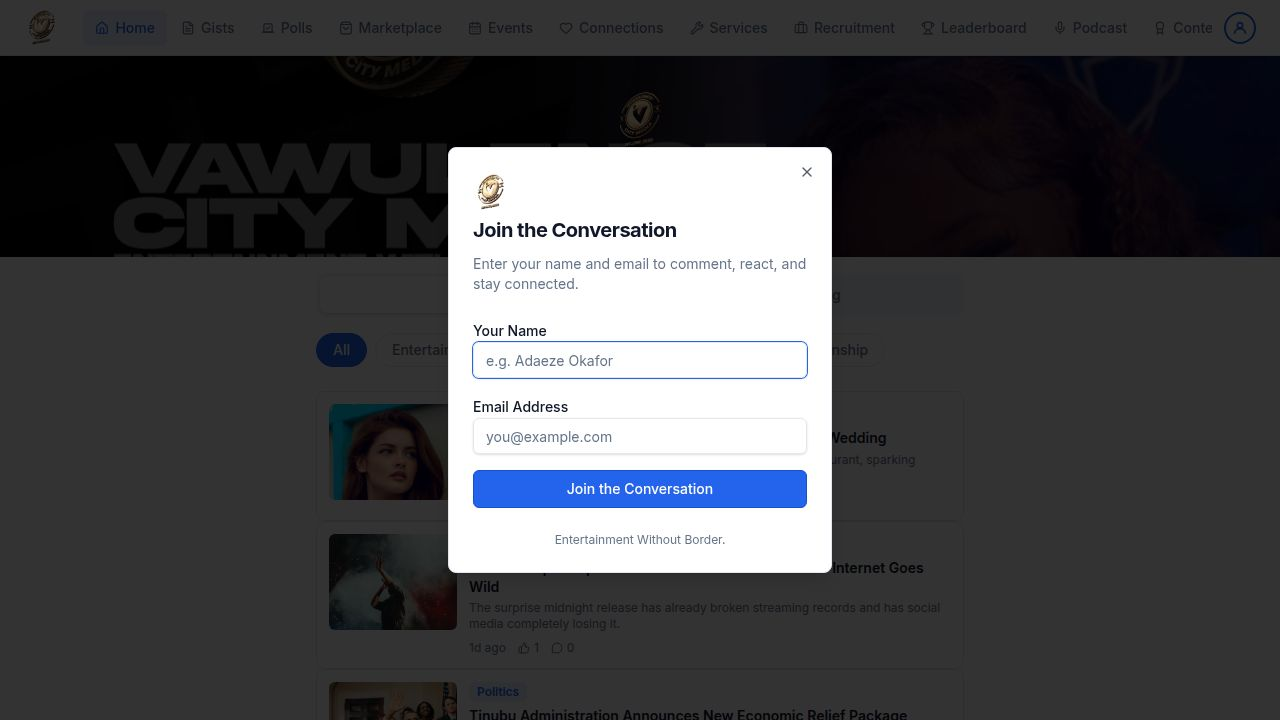
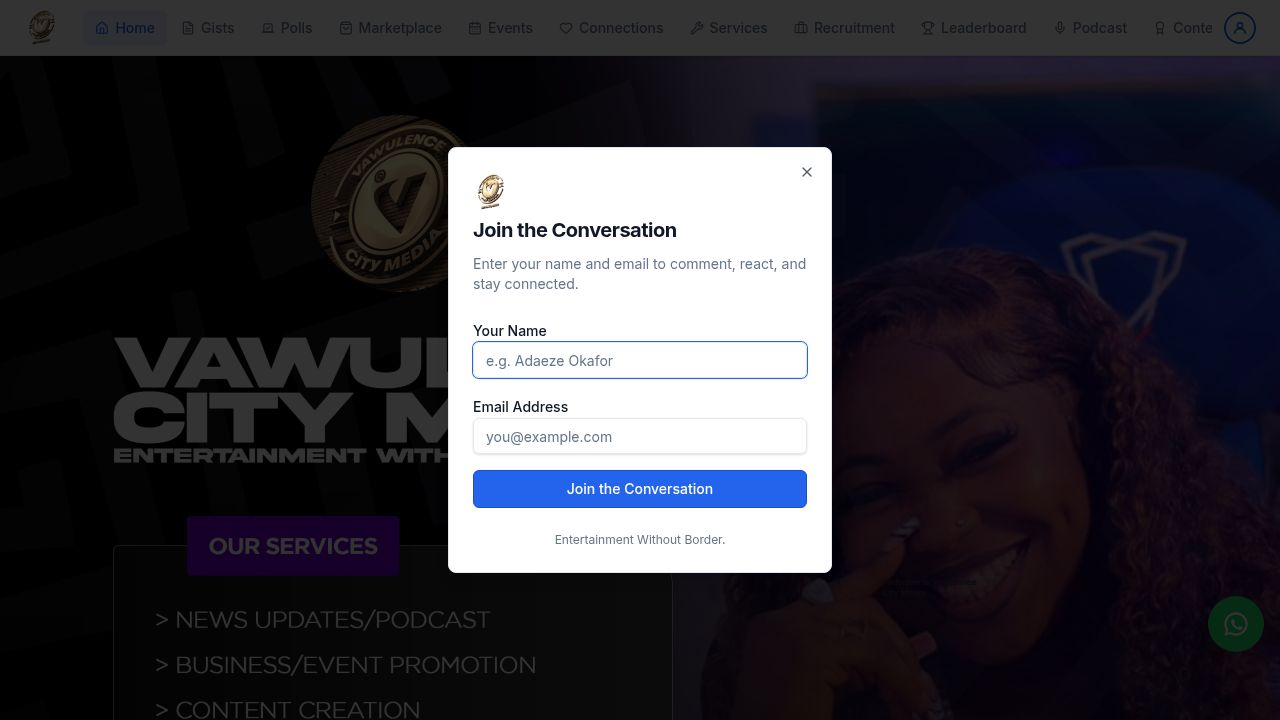
Fix homepage glitches and add a floating WhatsApp button
Resolves homepage flickering by reserving image space and initializing scroll state correctly. Adds a fixed WhatsApp button to the bottom-right corner.

Replit-Commit-Author: Agent
Replit-Commit-Session-Id: 5d6c28f1-0a67-4857-b88e-095cd15ee384
Replit-Commit-Checkpoint-Type: full_checkpoint
Replit-Commit-Event-Id: 11816262-6c73-4856-a5d1-f119dd834dbc
Replit-Commit-Screenshot-Url: https://storage.googleapis.com/screenshot-production-us-central1/4cdc7ef1-4e24-4452-ae7f-a7276cc99d9a/5d6c28f1-0a67-4857-b88e-095cd15ee384/z3jsvwD
Replit-Helium-Checkpoint-Created: true

diff --git a/artifacts/vcm/src/pages/HomePage.tsx b/artifacts/vcm/src/pages/HomePage.tsx
@@ -13,6 +13,8 @@ function Masthead() {
     function onScroll() {
       setCompact(window.scrollY > 80);
     }
+    // Set correct initial state based on current scroll (e.g. page refresh while scrolled)
+    setCompact(window.scrollY > 80);
     window.addEventListener("scroll", onScroll, { passive: true });
     return () => window.removeEventListener("scroll", onScroll);
   }, []);
@@ -35,11 +37,12 @@ function Masthead() {
   }
 
   return (
-    <div className="w-full" data-testid="home-masthead">
+    // aspect-square reserves space before the image loads → prevents layout-shift white flash
+    <div className="w-full aspect-square bg-black" data-testid="home-masthead">
       <img
         src="/vcm-flyer.jpeg"
         alt="Vawulence City Media"
-        className="w-full h-auto block"
+        className="w-full h-full object-cover block"
       />
     </div>
   );
@@ -120,6 +123,24 @@ export default function HomePage() {
   return (
     <div className="min-h-screen">
       <Masthead />
+
+      {/* WhatsApp floating button — fixed above bottom nav */}
+      <a
+        href="https://wa.me/2348030430681"
+        target="_blank"
+        rel="noopener noreferrer"
+        aria-label="Chat with us on WhatsApp"
+        className="fixed right-4 z-40 flex items-center justify-center w-14 h-14 rounded-full shadow-lg transition-transform hover:scale-110 active:scale-95"
+        style={{
+          bottom: "calc(56px + env(safe-area-inset-bottom) + 12px)",
+          background: "#25D366",
+        }}
+      >
+        {/* WhatsApp SVG icon */}
+        <svg viewBox="0 0 32 32" className="w-7 h-7 fill-white" xmlns="http://www.w3.org/2000/svg">
+          <path d="M16.003 2.667C8.639 2.667 2.667 8.638 2.667 16c0 2.364.627 4.674 1.817 6.694L2.667 29.333l6.823-1.789A13.27 13.27 0 0 0 16.003 29.333C23.365 29.333 29.333 23.362 29.333 16S23.365 2.667 16.003 2.667zm0 2.4c5.94 0 10.93 4.99 10.93 10.933 0 5.94-4.99 10.933-10.93 10.933a10.896 10.896 0 0 1-5.564-1.524l-.398-.237-4.05 1.062 1.08-3.937-.26-.41A10.892 10.892 0 0 1 5.07 16c0-5.944 4.99-10.933 10.933-10.933zm-3.04 5.6c-.19-.002-.392.003-.58.008-.215.006-.564.08-.86.4-.298.32-1.137 1.11-1.137 2.706 0 1.597 1.162 3.139 1.323 3.355.163.216 2.254 3.588 5.548 4.888.775.307 1.38.49 1.851.627.777.227 1.485.195 2.044.118.623-.086 1.92-.785 2.19-1.543.272-.757.272-1.406.19-1.542-.08-.136-.297-.216-.621-.378-.324-.162-1.917-.946-2.214-1.054-.298-.108-.514-.162-.73.162-.216.324-.838 1.054-1.027 1.27-.19.216-.378.243-.702.081-.324-.162-1.367-.504-2.604-1.607-.963-.859-1.613-1.918-1.803-2.242-.188-.324-.02-.5.142-.661.146-.146.324-.378.487-.567.162-.189.216-.324.324-.54.108-.216.054-.405-.027-.567-.08-.162-.73-1.76-1.003-2.408-.243-.577-.49-.575-.68-.583z"/>
+        </svg>
+      </a>
 
       <div className="max-w-2xl mx-auto px-3 py-4">
         {/* Feed / Trending toggle */}
